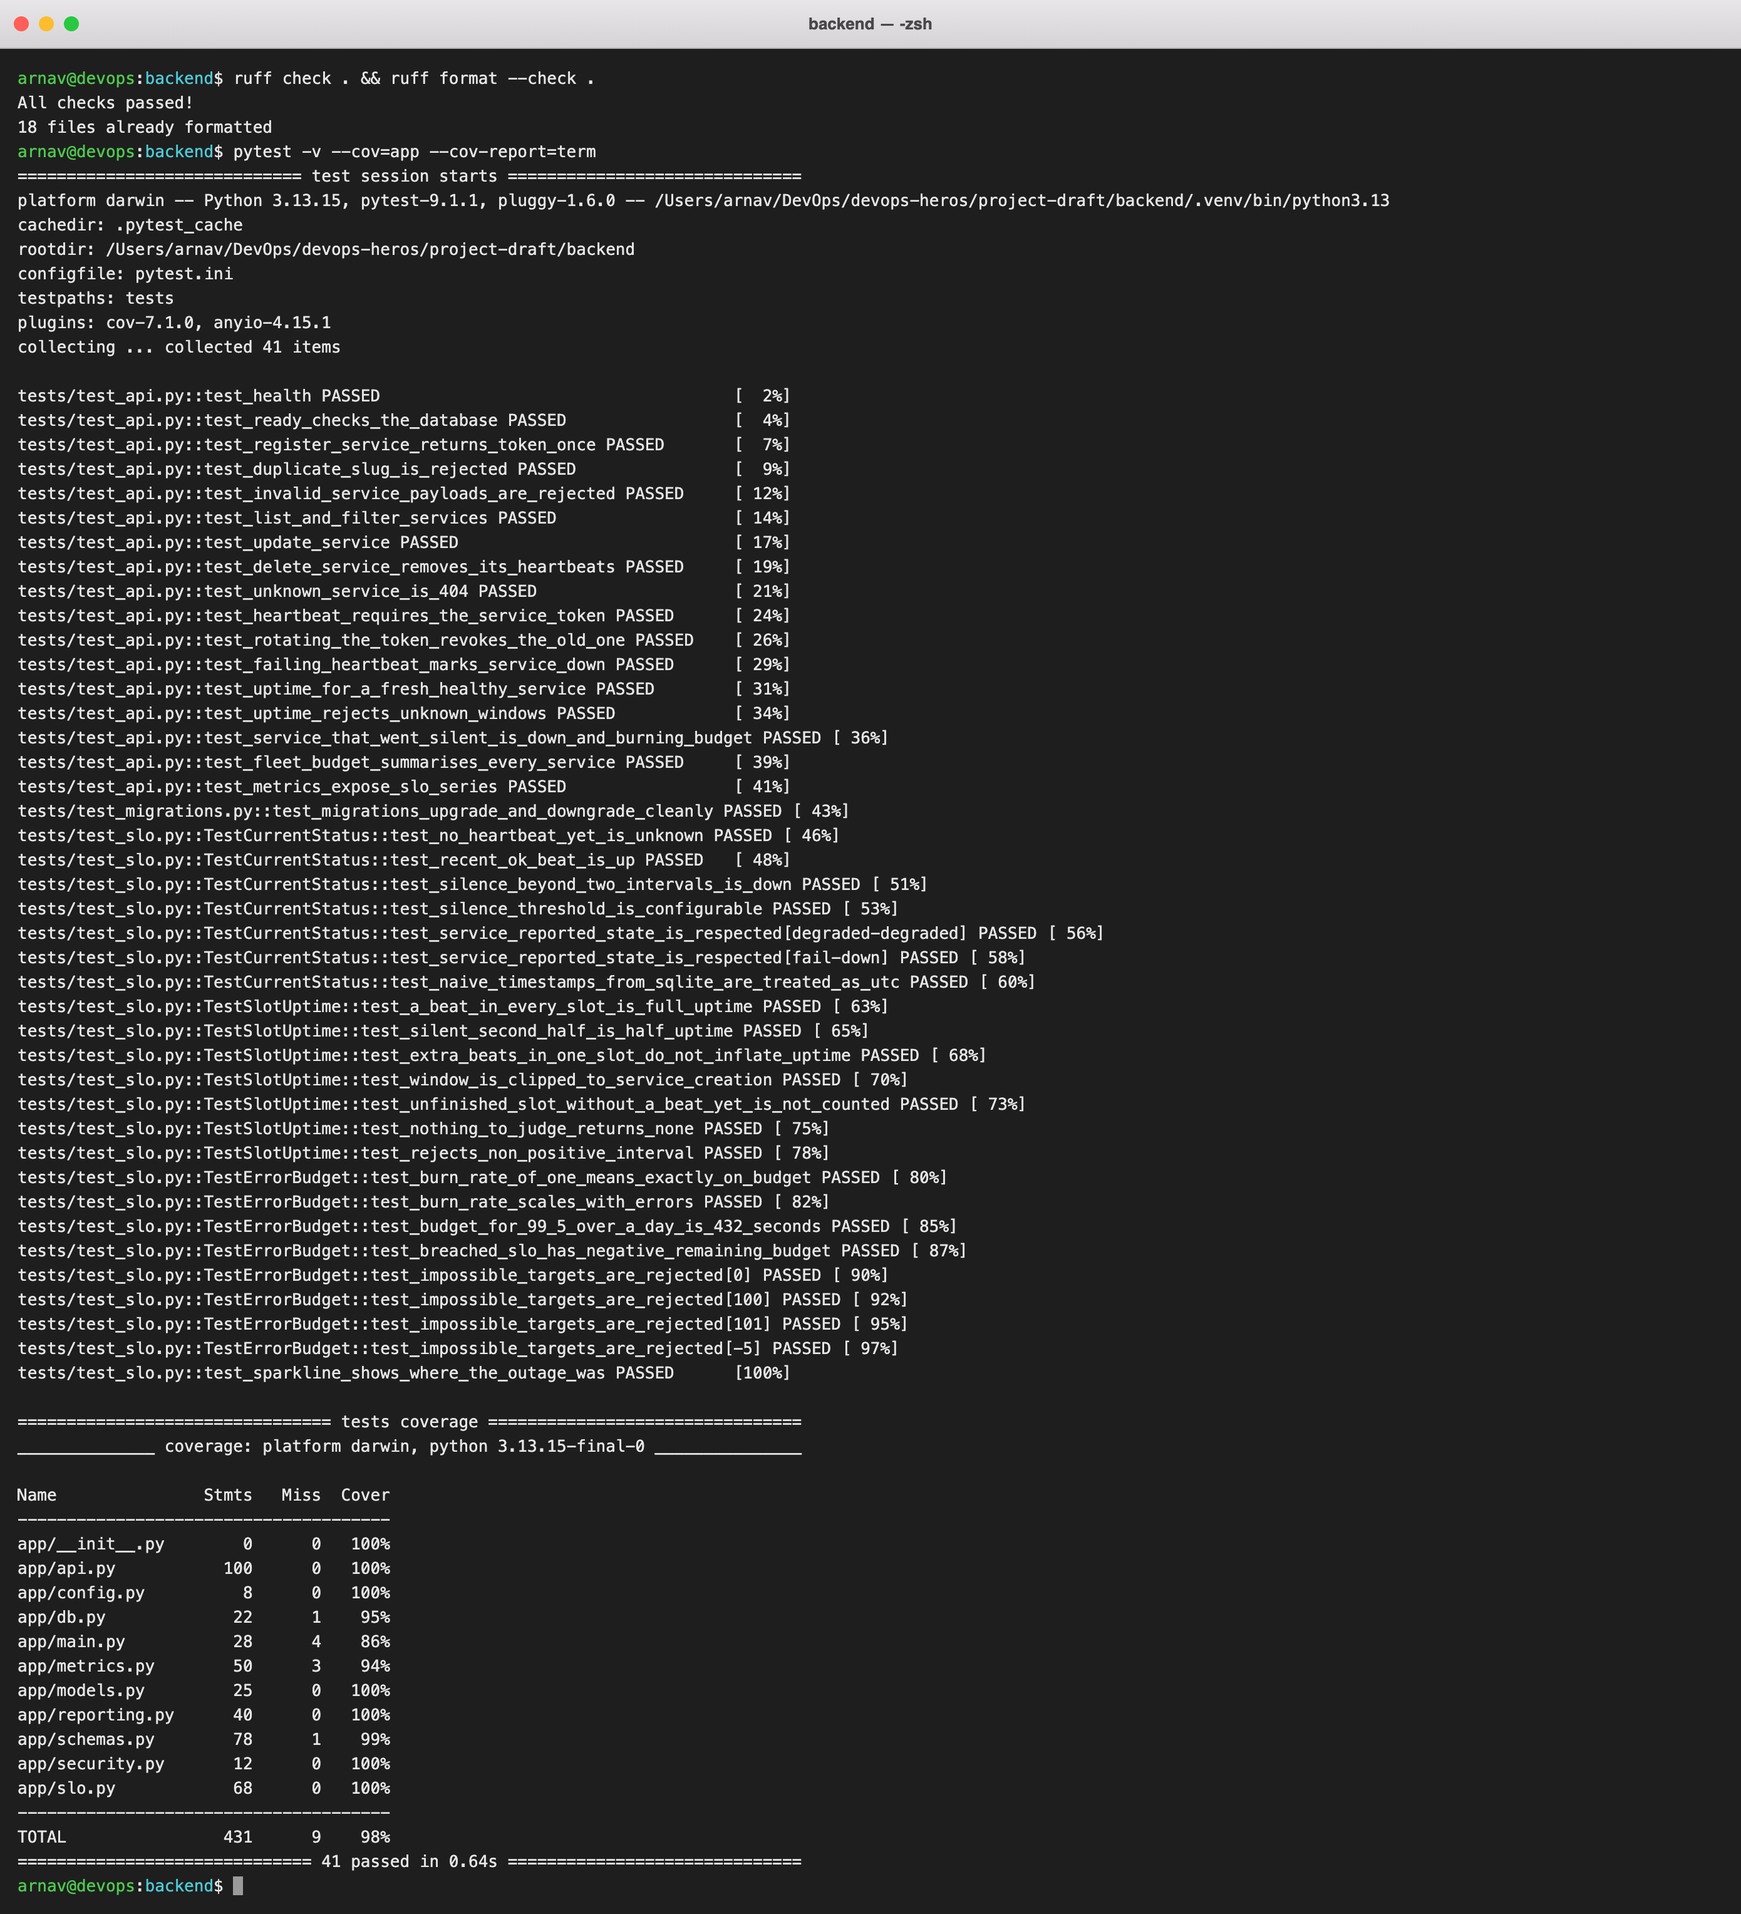
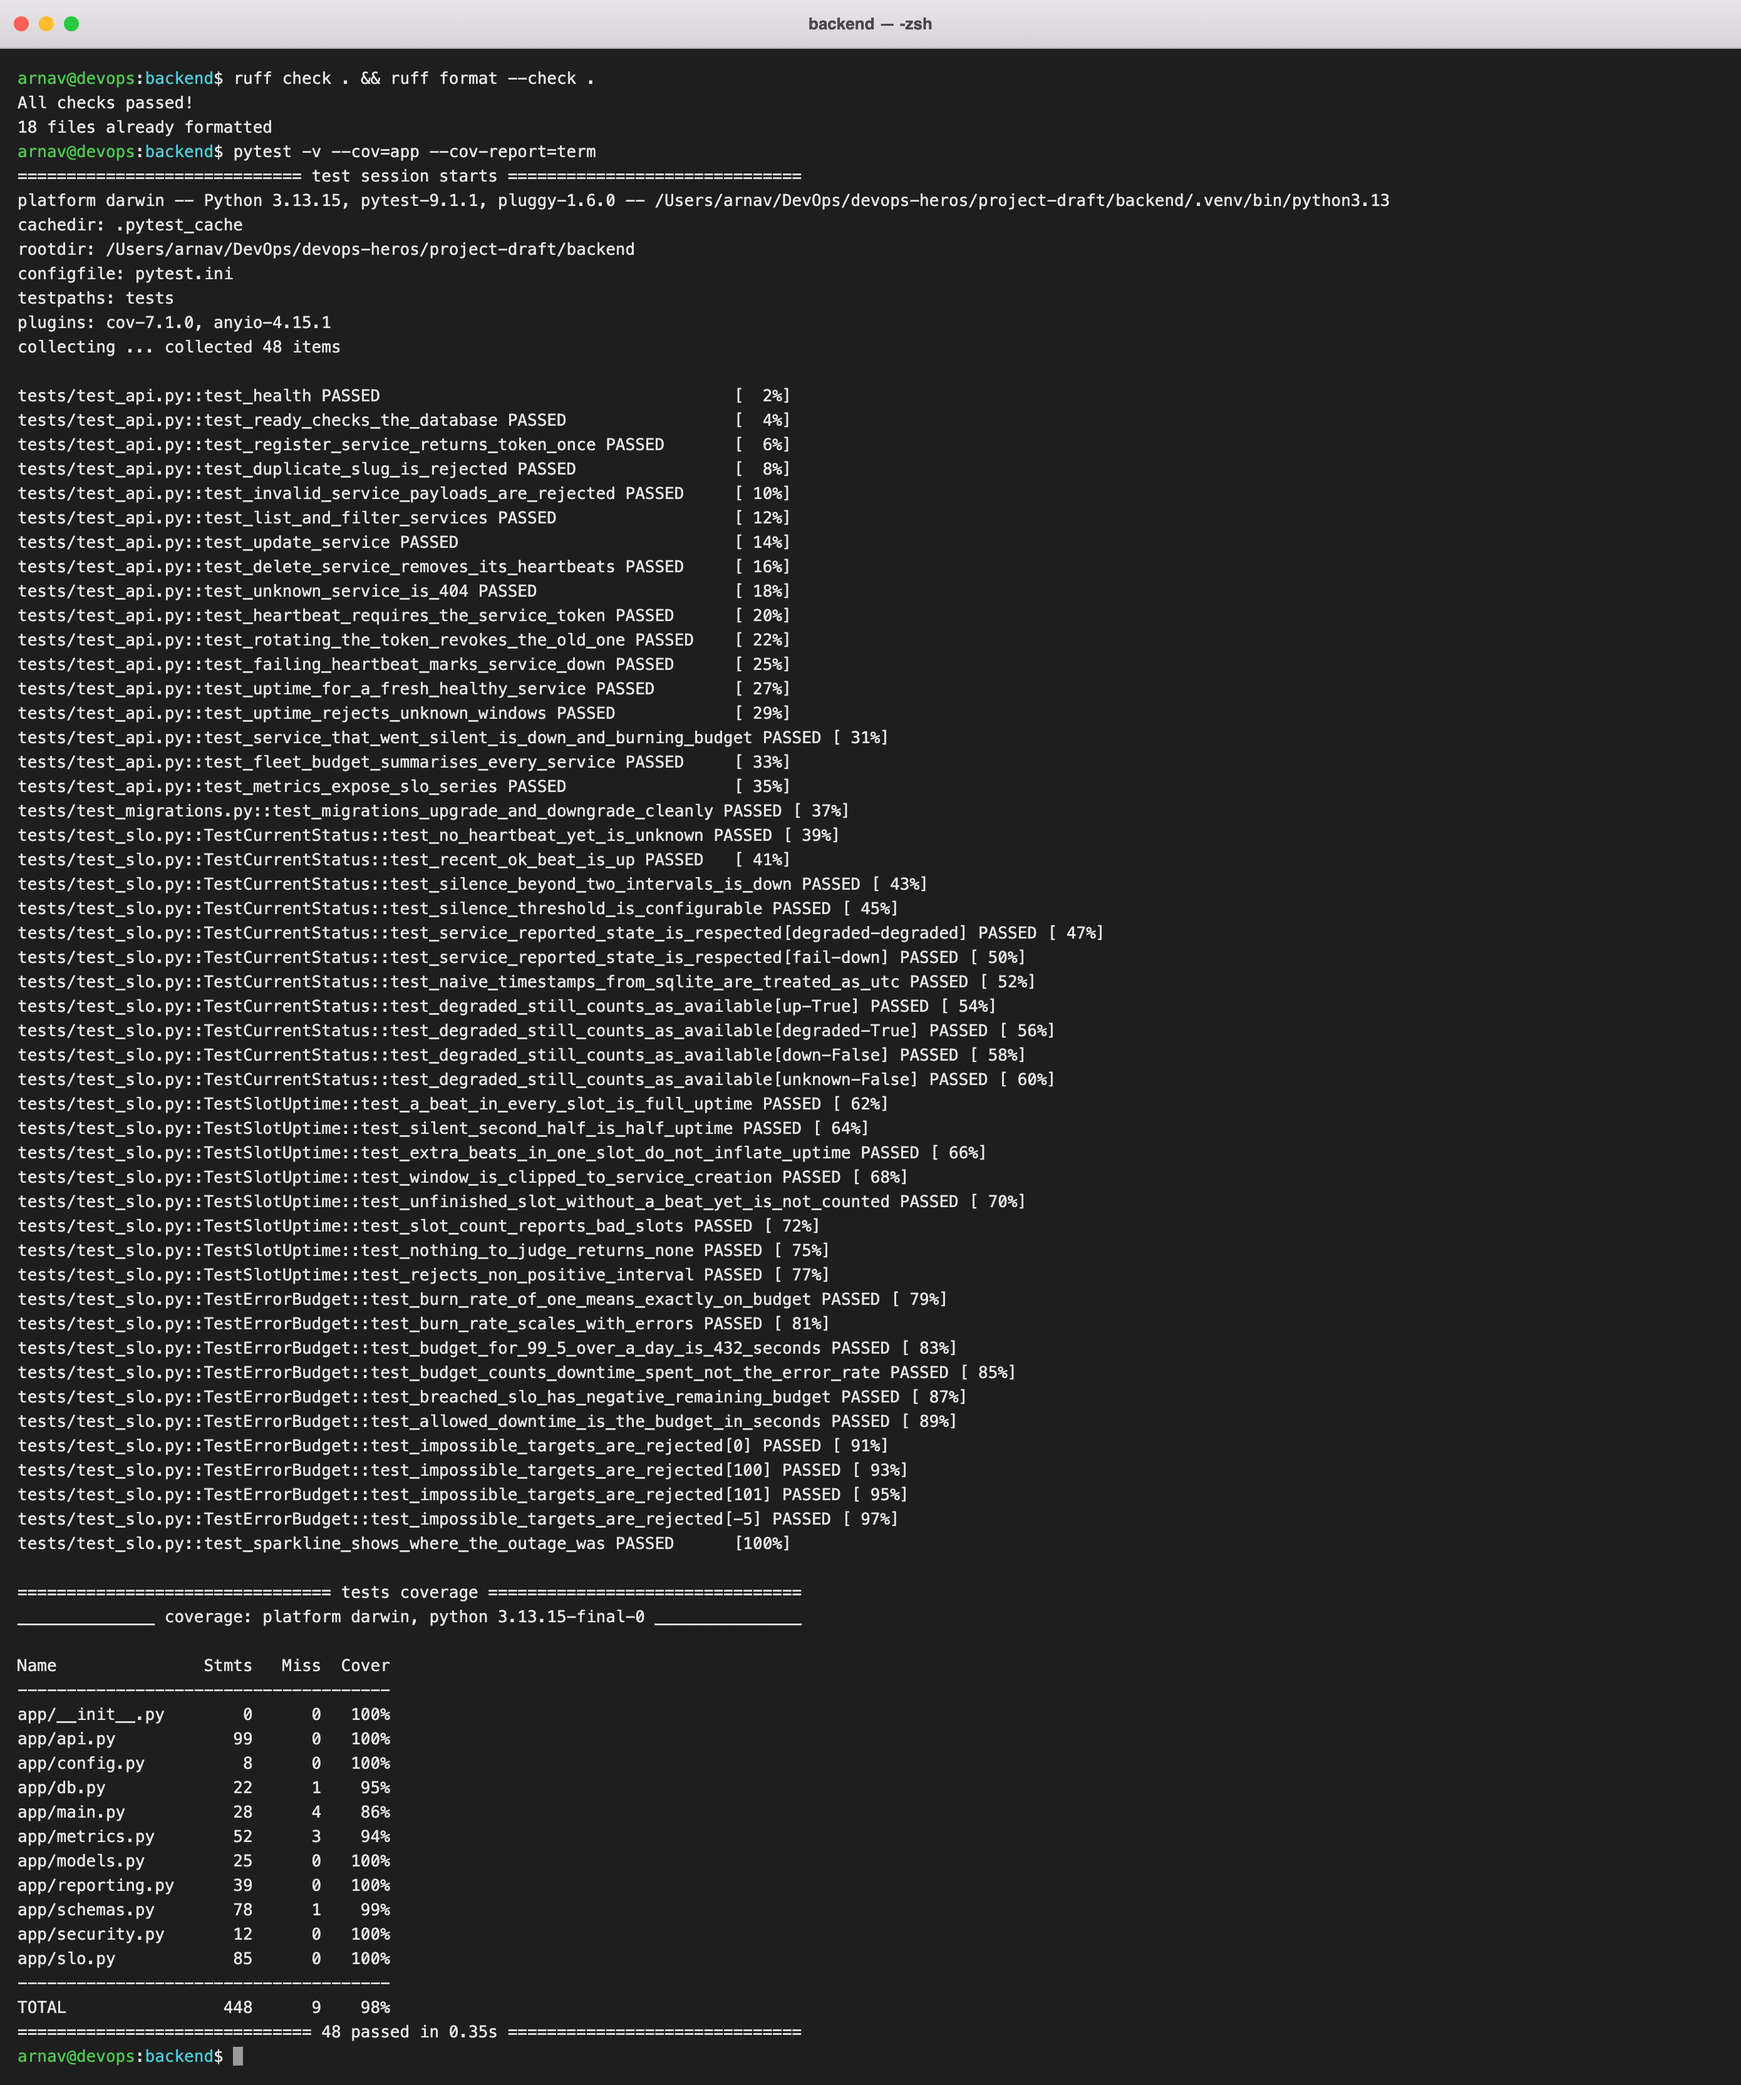
Bring the README and test evidence up to date
The README now describes the Alpine images, the gate on both architectures, the
Terraform job in the pipeline and the 48 tests, and the M2 screenshot shows the
current suite.

Changed region(s): [[0.0, 0.0, 0.8043, 0.9948], [0.464, 0.0, 0.5568, 0.0311]]

diff --git a/README.md b/README.md
@@ -85,7 +85,7 @@ flowchart LR
 | Backend | FastAPI, SQLAlchemy 2, Alembic, Postgres | 12 routes, scrape-time SLO metrics |
 | Frontend | React 19, Vite, nginx-unprivileged | `/api` upstream templated at start-up |
 | Simulator | Python standard library only | Healthy, flaky, degraded and periodically silent services |
-| Packaging | Docker multi-stage, Helm 3 chart | Non-root, read-only root filesystem, no pip at runtime |
+| Packaging | Docker multi-stage on Alpine, Helm 3 chart | Non-root, read-only root filesystem, no pip at runtime |
 | Delivery | GitHub Actions → GHCR → ArgoCD | Trivy gate before push, GitOps promotion |
 | Cloud | Terraform → AWS VPC + EKS 1.35 | See [`terraform/README.md`](terraform/README.md) |
 | Observability | kube-prometheus-stack | Custom metrics, burn-rate alerts, provisioned dashboard |
@@ -141,7 +141,7 @@ python3.13 -m venv .venv && .venv/bin/pip install -r requirements-dev.txt
 .venv/bin/ruff check . && .venv/bin/pytest -v --cov=app
 ```
 
-43 tests across the API, the migrations and the SLO maths. They run against an in-memory
+48 tests across the API, the migrations and the SLO maths. They run against an in-memory
 SQLite database configured in `tests/conftest.py`, never the real one.
 
 ### On Kubernetes (minikube)
@@ -177,21 +177,24 @@ kubectl -n ingress-nginx port-forward svc/ingress-nginx-controller 8080:80
 
 ## CI/CD
 
-`.github/workflows/ci-cd.yml` runs on every push and pull request:
+`.github/workflows/ci-cd.yml` runs on every push to `main`, docs-only changes included, and
+on every pull request that touches code:
 
 ```mermaid
 flowchart LR
     be[Backend<br/>ruff + bandit rules<br/>pytest + coverage] --> img
     fe[Frontend<br/>npm ci + build] --> img
-    img["Images ×3<br/>build amd64 → Trivy gate<br/>→ push amd64+arm64 to GHCR"] --> promote
+    img["Images ×3<br/>build amd64 + arm64 → Trivy gate on both<br/>→ push to GHCR"] --> promote
     helm[Helm<br/>lint + kubeconform] --> promote
+    tf[Terraform<br/>fmt + validate] --> promote
     sec[gitleaks<br/>full history] --> promote
     promote["Promote (main only)<br/>commit sha tag to<br/>values-minikube.yaml"] --> argo((ArgoCD<br/>rolls out))
 ```
 
 - **Tests gate everything.** No image is built if a test fails.
-- **Images are scanned before they are pushed.** Trivy fails the job on any fixable HIGH or
-  CRITICAL finding, and the full report goes to GitHub code scanning.
+- **Images are scanned before they are pushed.** Both architectures of every image are
+  built and scanned, and Trivy fails the job on any HIGH or CRITICAL finding, fixable or
+  not. The full report goes to GitHub code scanning.
 - **Tags are commit SHAs** (`sha-1a2b3c4` and the full SHA), never `latest`, so every
   running pod traces back to a commit.
 - **Images are multi-arch.** amd64 is for EKS and the GitHub runners; arm64 is for
@@ -210,7 +213,8 @@ flowchart LR
 | Read-only root filesystem for the backend, frontend and simulator | Helm templates |
 | Namespace enforces the Pod Security `restricted` profile | `k8s/namespace.yaml` |
 | No package manager in the Python runtime images | `backend/Dockerfile`, `simulator/Dockerfile` |
-| Trivy gate on every image before it can reach the registry | CI `images` job |
+| Alpine base images, which carry no OS packages the app does not need | all three Dockerfiles |
+| Trivy gate on both architectures of every image before it can reach the registry | CI `images` job |
 | gitleaks scan of the whole Git history | CI `secrets` job |
 | Bandit security rules on every Python file | `backend/ruff.toml` |
 | Database password created in-cluster, never committed | `scripts/bootstrap-minikube.sh` |
@@ -218,7 +222,10 @@ flowchart LR
 
 The Trivy gate earned its place on the first pipeline run. It blocked two images over four
 HIGH CVEs in libraries that pip vendors inside itself. The fix was to remove pip from the
-runtime images, which needed none of it. See [`docs/EVIDENCE.md`](docs/EVIDENCE.md#m6--devsecops).
+runtime images, which needed none of it. Later the backend moved from Debian slim to Alpine,
+dropping 44 HIGH CVEs that Debian had no fix for, in packages Argus never used. That let the
+gate fail on every HIGH or CRITICAL finding instead of only fixable ones. See
+[`docs/EVIDENCE.md`](docs/EVIDENCE.md#m6--devsecops).
 
 ---
 

diff --git a/docs/EVIDENCE.md b/docs/EVIDENCE.md
@@ -7,7 +7,7 @@ the capstone rubric they evidence.
 | Module | Points | Evidence |
 |---|---|---|
 | [M1 Application](#m1--application) | 10 | status board in the browser |
-| [M2 Testing](#m2--testing) | 10 | 43 passing tests, 98% coverage, lint clean |
+| [M2 Testing](#m2--testing) | 10 | 48 passing tests, 98% coverage, lint clean |
 | [M3 Git and GitHub](#m3--git-and-github) | 5 | commit history |
 | [M4 Docker](#m4--docker) | 10 | `compose up --build`, non-root images, app on :3000 |
 | [M5 CI/CD](#m5--cicd) | 15 | green pipeline, GHCR packages with SHA tags |
@@ -32,7 +32,7 @@ Source: [`backend/app/`](../backend/app), [`backend/alembic/versions/`](../backe
 
 ## M2 — Testing
 
-`ruff` (including bandit security rules) and `pytest -v` with coverage: **43 passed, 98%
+`ruff` (including bandit security rules) and `pytest -v` with coverage: **48 passed, 98%
 coverage**. Tests use an in-memory SQLite database set up in
 [`tests/conftest.py`](../backend/tests/conftest.py), never the real database. They cover
 the API (service CRUD, token-protected heartbeats, uptime, fleet budget, metrics), the
